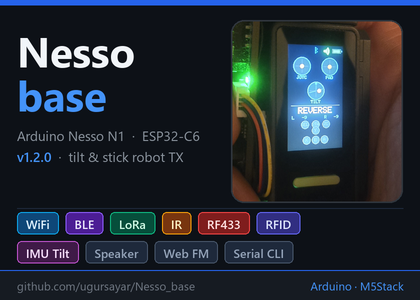
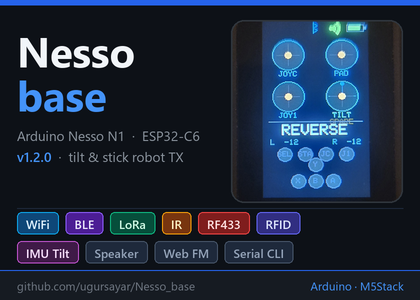
Use the four-disc controller screen as the M5Burner cover photo
Better shot: the screen shows the full four-role view -- JOYC, PAD, JOY1 and
TILT, with REVERSE and live L/R values -- so the roster demonstrates itself
instead of being asserted in a tag. Cropped so the display fills the panel.

The device was shot lying on its side while the UI stayed portrait, so the
screen reads sideways in the raw frame. gen_cover.py gains PHOTO_ROTATE and
applies it BEFORE the crop, which is why PHOTO_CROP is expressed in the rotated
frame -- worth knowing before adjusting those numbers, since they do not
correspond to anything you can measure on the original file.

Changed region(s): [[0.5262, 0.06, 0.9595, 0.69]]

diff --git a/gen_cover.py b/gen_cover.py
@@ -7,8 +7,11 @@ from PIL import Image, ImageDraw, ImageFont
 
 VERSION = "1.2.0"
 TAGLINE = "tilt & stick robot TX"
-PHOTO   = "assets/20260903_102942.jpg"
-PHOTO_CROP = (640, 1230, 1674, 2330)   # device in hand, screen showing the live TILT disc
+PHOTO   = "assets/20260903_104357.jpg"
+# The device was shot lying on its side while the UI stayed portrait, so the screen reads
+# sideways in the raw frame. Rotate FIRST, then crop -- PHOTO_CROP is in the rotated frame.
+PHOTO_ROTATE = 270                     # degrees counter-clockwise (= 90 clockwise)
+PHOTO_CROP = (752, 1260, 1730, 2300)   # the four-disc controller screen, filling the panel
 
 ROOT = os.path.dirname(os.path.abspath(__file__))
 W, H = 840, 600                      # 2x canvas -> saved at 420x300
@@ -35,7 +38,10 @@ font_tag  = try_font(["seguisb.ttf",  "arialbd.ttf"], 24)
 font_tiny = try_font(["segoeui.ttf",  "arial.ttf"],   23)
 
 # ── Photo panel (right) ──
-photo = Image.open(os.path.join(ROOT, PHOTO)).crop(PHOTO_CROP)
+photo = Image.open(os.path.join(ROOT, PHOTO))
+if PHOTO_ROTATE:
+    photo = photo.rotate(PHOTO_ROTATE, expand=True)
+photo = photo.crop(PHOTO_CROP)
 PX, PY, PW, PH = 462, 40, 344, 366
 photo = photo.resize((PW, PH), Image.LANCZOS)
 mask = Image.new("L", (PW, PH), 0)
